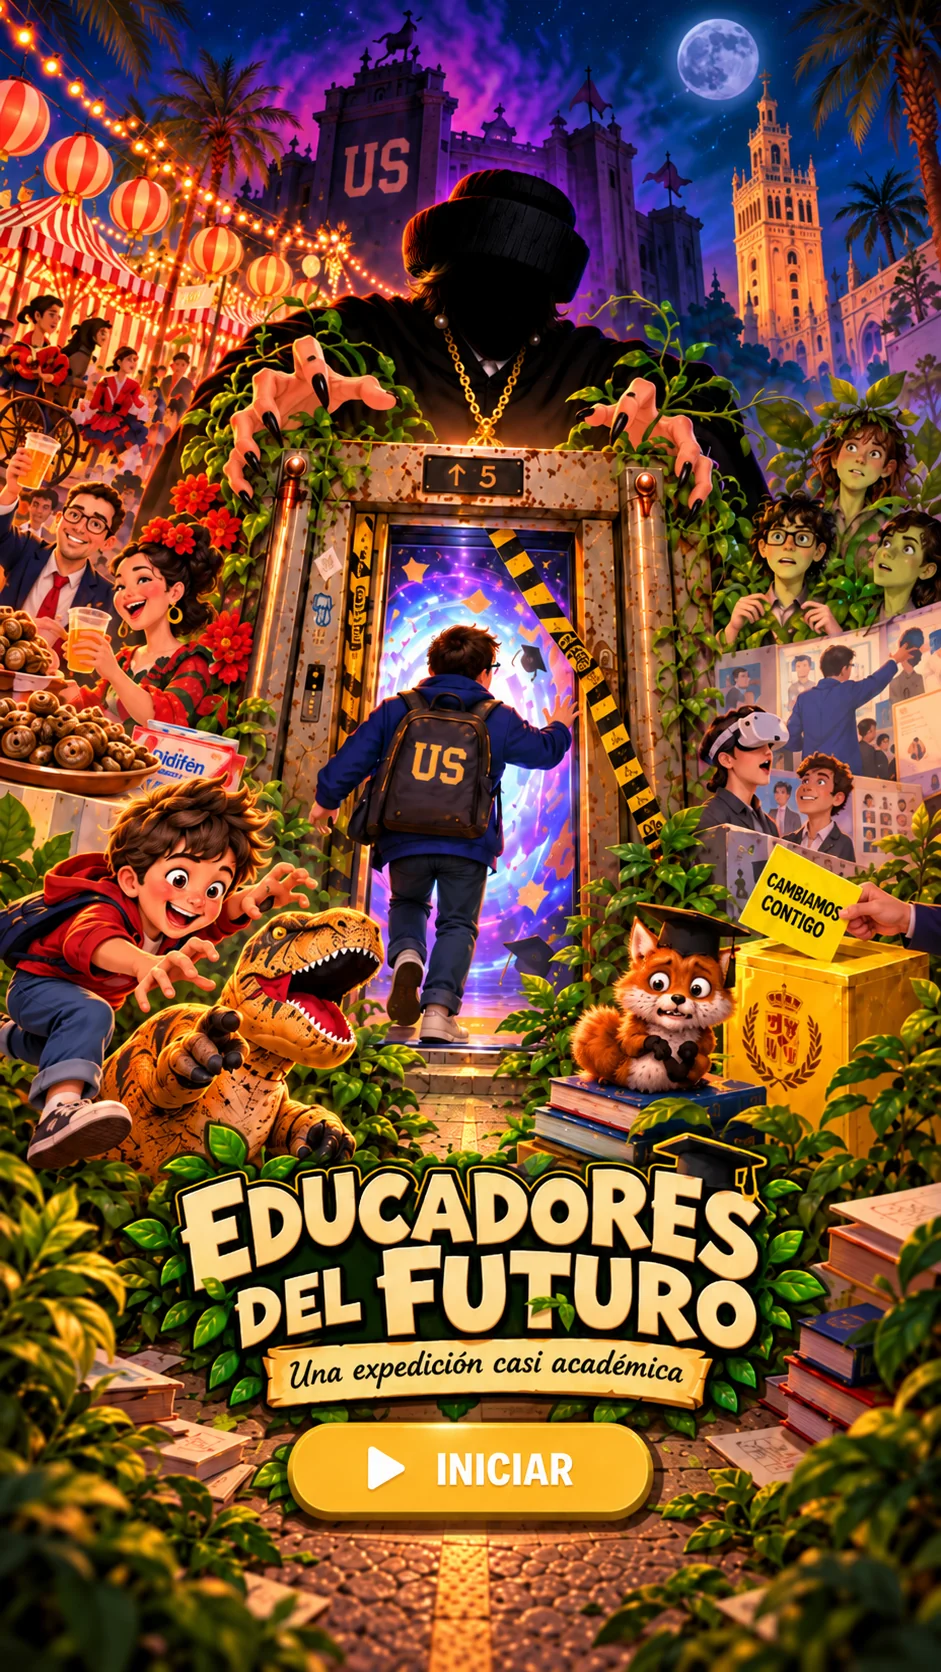
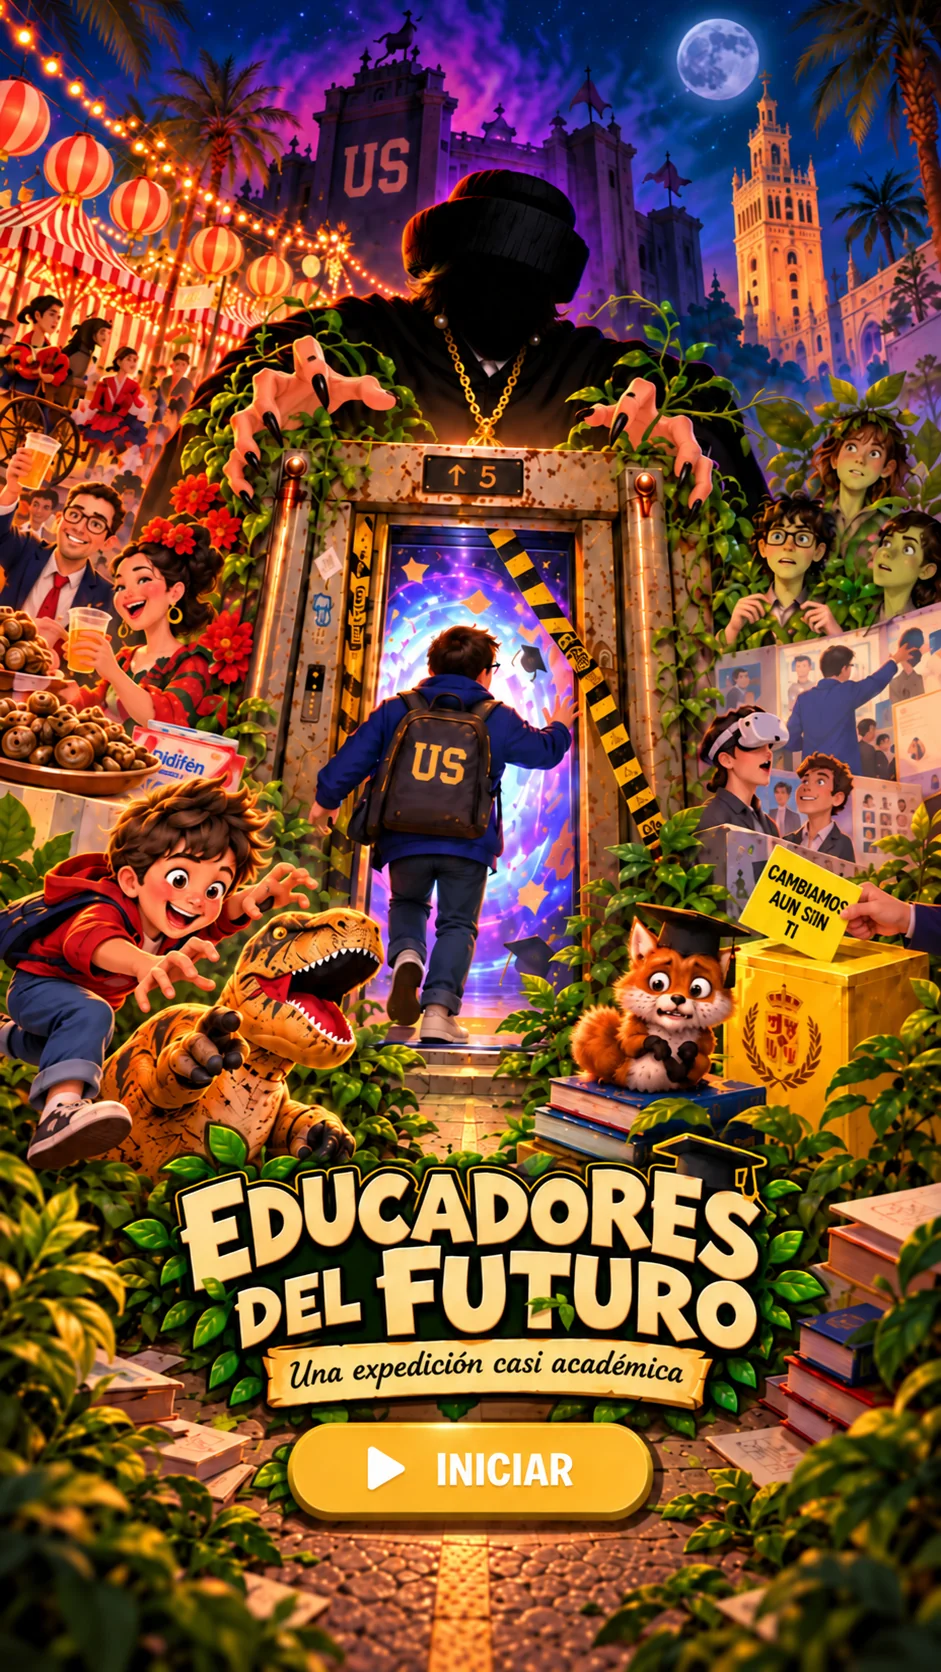
Add files via upload

diff --git a/game.js b/game.js
@@ -53,7 +53,7 @@ window.setupGame=function(k){
  function showToast(text,good=true){clearTimeout(toastTimer);toast.textContent=text;toast.classList.toggle('wrong',!good);toast.hidden=false;toastTimer=setTimeout(()=>toast.hidden=true,2400);}
  function hideModal(){modal.hidden=true;modal.setAttribute('aria-hidden','true');}
  function showModal(html){modal.hidden=false;modal.removeAttribute('aria-hidden');panel.innerHTML=html;panel.setAttribute('tabindex','-1');panel.focus({preventScroll:true});panel.scrollTop=0;modal.scrollTop=0;}
- function showCover(){showModal(`<button type="button" class="cover-start" aria-label="Iniciar: ver la historia y las instrucciones"><picture><source media="(max-aspect-ratio: 1/1)" srcset="portada-movil.webp?v=2"><img src="portada-escritorio.webp?v=2" alt="Educadores del futuro. Una expedición casi académica. Iniciar" fetchpriority="high" decoding="async"></picture></button>`);modal.classList.add('cover-screen');$('.cover-start').onclick=()=>{modal.classList.remove('cover-screen');welcome();};}
+ function showCover(){showModal(`<button type="button" class="cover-start" aria-label="Iniciar: ver la historia y las instrucciones"><picture><source media="(max-aspect-ratio: 1/1)" srcset="portada-movil.webp?v=3"><img src="portada-escritorio.webp?v=3" alt="Educadores del futuro. Una expedición casi académica. Iniciar" fetchpriority="high" decoding="async"></picture></button>`);modal.classList.add('cover-screen');$('.cover-start').onclick=()=>{modal.classList.remove('cover-screen');welcome();};}
  function welcome(help=false){if(!gameUnlocked){accessPassword();return;}helpMode=help;showModal(`<h1>Educadores<br>del futuro</h1><p class="subtitle">Una expedición casi académica</p><h2>Vargamel y el plan de la fotosíntesis universitaria</h2><p>Cuenta la leyenda que un estudiante necesitaba subir a la quinta planta y decidió entrar en un ascensor averiado porque en los demás había demasiada gente esperando.</p><p>Lo que parecía una decisión cuestionable, pero perfectamente comprensible en el contexto de la US, terminó conduciéndolo a un descubrimiento aterrador.</p><p>Vargamel estaba utilizando los ascensores como portales hacia universos paralelos, donde realizaba experimentos secretos con estudiantes para convertirlos en plantas.</p><p>Tu misión será recorrer esos mundos, reunir las pruebas de sus experimentos y liberar a los estudiantes antes de que sea demasiado tarde.</p><p>¿Conseguirás salvar la universidad o te arrepentirás de no haber votado a Guti a tiempo?</p><h2 class="instructions-title">Instrucciones</h2><div class="steps"><p><b>01</b><strong>Explora:</strong> arrastra la escena para mirar alrededor. Pellizca o utiliza la rueda del ratón para acercarte.</p><p><b>02</b><strong>Investiga:</strong> lee cada pista y pulsa la imagen correcta. Si fallas, puedes volver a intentarlo. Aquí no se pierden vidas, solo dignidad.</p><p><b>03</b><strong>Sobrevive:</strong> pide ayuda cuando la necesites. Al final te espera un cuestionario y un informe de dudosa solemnidad.</p></div><p class="dim">El botón ♫ silencia música y efectos. Puedes cerrar y volver a abrir las pistas.</p><button class="primary wide" id="start-game">${help?'Volver a la aventura':'Comenzar la aventura'}</button>`);$('#start-game').onclick=()=>{audio();music();hideModal();if(!started){started=true;startedAt=Date.now();hud.hidden=false;startIntro();}else drawQuest();for(const item of Object.values(k._palaciosShared||{}))if(item.start)item.start();};}
  function testFinalMission(){audio();music();started=true;startedAt=Date.now();finished=false;freeExploration=false;busy=false;introDone=true;index=quests.length-1;hintLevel=0;hiddenQuest=false;doorOpened=true;hologramSoundAllowed=false;updateHologramAudio(null);hideModal();hud.hidden=false;$('.intro-note').hidden=true;for(const id of ['#ending-choice','#exploration-nav']){const item=$(id);if(item)item.hidden=true;}k.call('set(control.usercontrol,all);loadscene(scene_2,null,MERGE,BLEND(0.3));lookat(-135.08606076885258,11.334507226600849,50);');drawQuest();}
  function current(){return quests[index];}

diff --git a/index.html b/index.html
@@ -1,5 +1,5 @@
 <!doctype html>
-<html lang="es"><head><meta charset="utf-8"><meta name="viewport" content="width=device-width, initial-scale=1, viewport-fit=cover"><meta name="theme-color" content="#081925"><title>Educadores del futuro · La realidad casi paralela</title><link rel="stylesheet" href="game.css?v=historia-vargamel"><style>html,body{height:100%;margin:0;background:#081925;overflow:hidden}#pano{width:100%;height:100%;touch-action:none}.access-locked #pano{visibility:hidden}.access-locked .overlay{background:#081925}</style></head><body class="access-locked"><div id="pano"><noscript>Activa JavaScript para entrar en la realidad casi paralela.</noscript></div><script src="tour.js"></script><script src="game.js?v=historia-vargamel"></script><script>embedpano({xml:'tour.xml?v=historia-vargamel',target:'pano',html5:'only',onready:window.setupGame});</script></body></html>
+<html lang="es"><head><meta charset="utf-8"><meta name="viewport" content="width=device-width, initial-scale=1, viewport-fit=cover"><meta name="theme-color" content="#081925"><title>Educadores del futuro · La realidad casi paralela</title><link rel="stylesheet" href="game.css?v=portadas-aun-sin-ti"><style>html,body{height:100%;margin:0;background:#081925;overflow:hidden}#pano{width:100%;height:100%;touch-action:none}.access-locked #pano{visibility:hidden}.access-locked .overlay{background:#081925}</style></head><body class="access-locked"><div id="pano"><noscript>Activa JavaScript para entrar en la realidad casi paralela.</noscript></div><script src="tour.js"></script><script src="game.js?v=portadas-aun-sin-ti"></script><script>embedpano({xml:'tour.xml?v=portadas-aun-sin-ti',target:'pano',html5:'only',onready:window.setupGame});</script></body></html>
 
 
 
